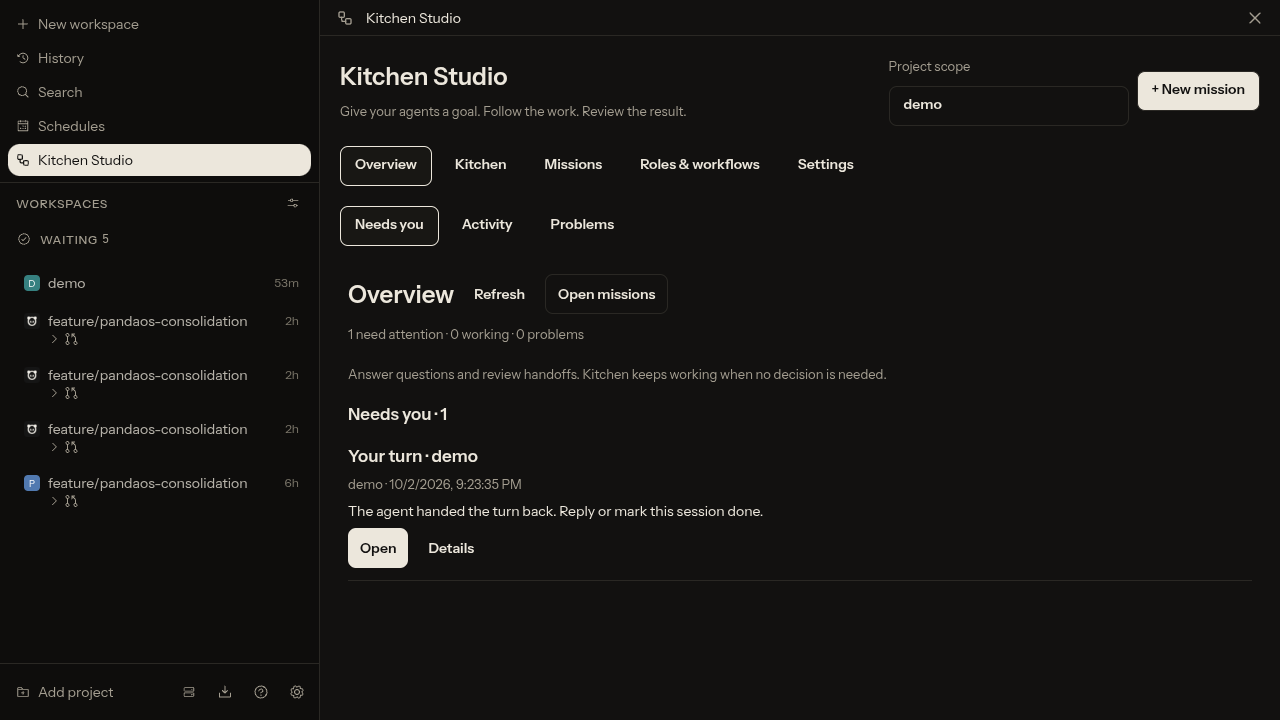
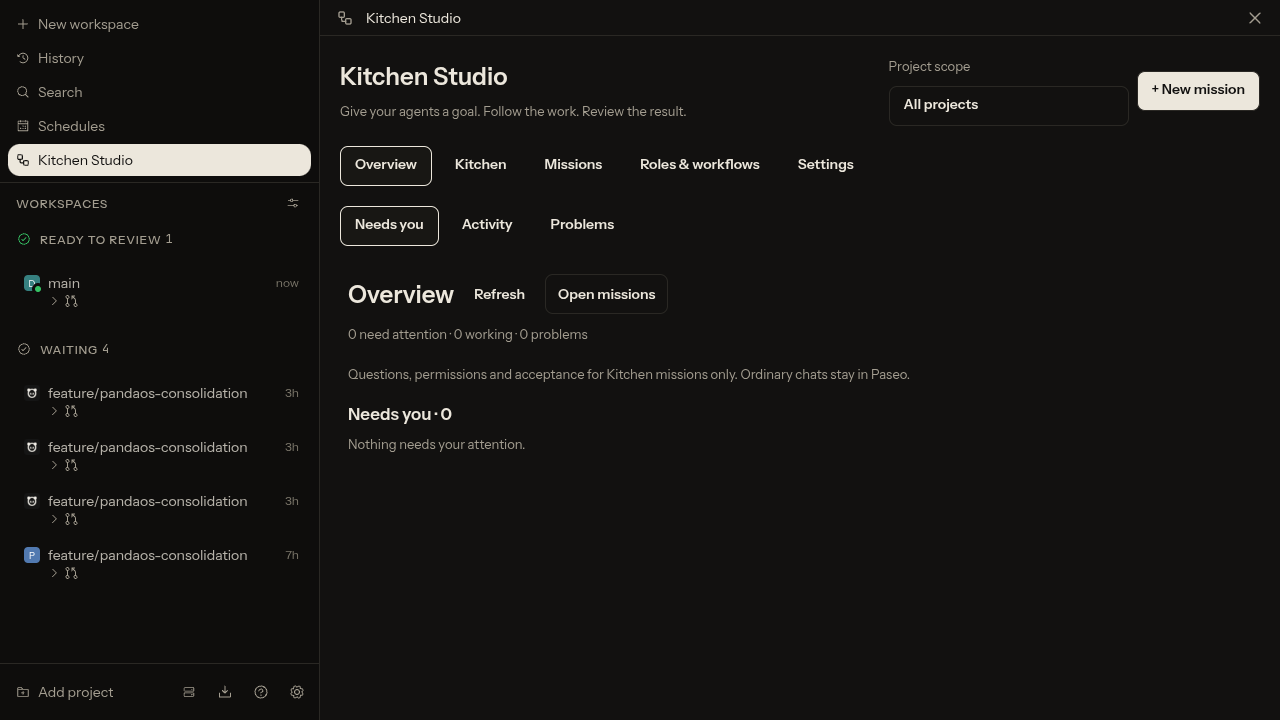
Explain role handoffs and Kitchen-only attention with verified screenshots

diff --git a/README.md b/README.md
@@ -4,7 +4,7 @@ A portable Paseo plugin for turning a goal into verified software. Give your Hea
 
 A Head Chef coordinates remaining work, isolated developer worktrees, editable reviews, independent verification, combined integration and human acceptance. The plugin owns its persisted jobs, bindings, queue, evidence, runtime limits and Kitchen schedules. It uses public Paseo APIs and the public host CLI.
 
-The hierarchy is inspired by [Agent Crew](https://paseo.cafe/plugins/agent-crew/), and the office presentation by Claw3D. The office is an original procedural Three.js scene: no Claw3D application code or assets are included. LICENSE and NOTICE preserve the Paseo, PandaOS and Mastra adaptations and the Three.js license.
+The hierarchy is inspired by [Agent Crew](https://paseo.cafe/plugins/agent-crew/), and the visual presentation by [Claw3D](https://github.com/iamlukethedev/claw3d). The Kitchen is an original procedural Three.js scene: no Claw3D application code or assets are included. LICENSE and NOTICE preserve the Paseo, PandaOS and Mastra adaptations and the Three.js license.
 
 ## Install and configure
 
@@ -81,7 +81,9 @@ The persistent start button explains missing required input. Name, goal, accepta
 
 ![Built-in roles and reusable workflows](docs/screenshots/roles-workflows.png)
 
-Use **Customize** on a standard role to start from its actual instructions. Save a named profile, then assign it to a mission role. Extra role instructions and installed skills are also available without creating a profile. Naming a skill does not install it: the harness resolves its installed skill and must report a missing skill.
+Use **+ Role** or **Customize** on a standard role. Choose the executable step, give the role a name and describe its task, responsibility and expected outcome. Templates already contain the pack's real instructions. The handoff graph shows which outcome starts the next role, including returns for corrections and the wait for child results.
+
+Save the role, then assign it to that step under **Roles & workflow** when starting a mission. For example, a named Reviewer can own accessibility checks and hand back `pass` or `changes` with evidence. Saving a profile does not create an extra execution stage. Custom stages and connections belong to a workflow pack. Instructions, ordered steps, installed skills and model preferences remain available in expandable sections. Naming a skill does not install it; the harness must report a missing skill.
 
 ### Settings
 
@@ -91,11 +93,11 @@ Set concurrent Cooks to control simultaneous execution. Connection, storage and 
 
 ## Dashboard and Kitchen
 
-Overview groups connected workspaces and agents and surfaces requests that need a human response. Activity shows workspace progress; Problems separates failed agents, failed checks and schedule errors. Open the affected agent, inspect its handoff, reply or mark the Dashboard session done. Snooze hides an inbox entry for one hour, until this evening or until tomorrow morning; it returns at its wake time. Snoozing does not stop the agent or resolve its request.
+Overview belongs to this host's Kitchen missions. It reads only the Head Chef, source agents and persisted Cook bindings; unrelated chats are excluded even when they share a workspace. **Needs you** contains actual permissions, blocked providers, mission questions and final acceptance. An ordinary completed Cook turn does not ask the human to take over. The Studio project selector scopes missions and their requests.
 
-Dashboard preferences use the plugin's own persistent store. **Settings → Dashboard** accepts an exported preference JSON to import existing snoozes without changing the original store. Existing workspace Done and handoff metadata is read from public snapshots. An accepted Kitchen contributes Done only when no linked work remains active. Dashboard Done/Reopen changes visibility in its own store; it does not archive agents or rewrite native workspace metadata.
+Open a question to reply in mission chat; open a verified result to inspect its evidence before acceptance. Snooze temporarily hides a request and does not stop work or answer it. Dashboard preferences persist in the plugin's own store. **Settings → Dashboard** can import existing snoozes. Accepted missions contribute Done only when no linked work remains active. Dashboard Done/Reopen affects its own view without archiving agents or rewriting workspace metadata.
 
-Host schedule monitoring requires Overview's explicit daemon home and public CLI settings. Additional hosts use exact app server IDs mapped to explicit endpoints. Unknown or unreachable targets produce a visible error; the plugin does not substitute another host or forward the local password to a remote endpoint. Supported new-agent schedules have confirmed pause and run-once actions. Heartbeat controls remain with the owning agent and are unavailable here. Overview also lists Kitchen mission schedules and opens the corresponding mission. Host and Kitchen schedules retain their own execution stores.
+**Activity** shows linked Kitchen work; **Problems** shows its failures. Kitchen schedules retain their own persisted kickoff outcomes and links to missions. Studio does not poll or display unrelated host cron schedules; those remain in Paseo's Schedules screen.
 
 Kitchen projects real mission bindings and public agent snapshots into cooking stations. On web and desktop, the interactive 3D scene lets you select a chef or station, inspect the agent or open its mission. Native clients use the role list. When WebGL is unavailable, the role list remains available with the renderer's reason. Missing live agent data is marked unobserved; the scene does not invent activity or usage.
 
